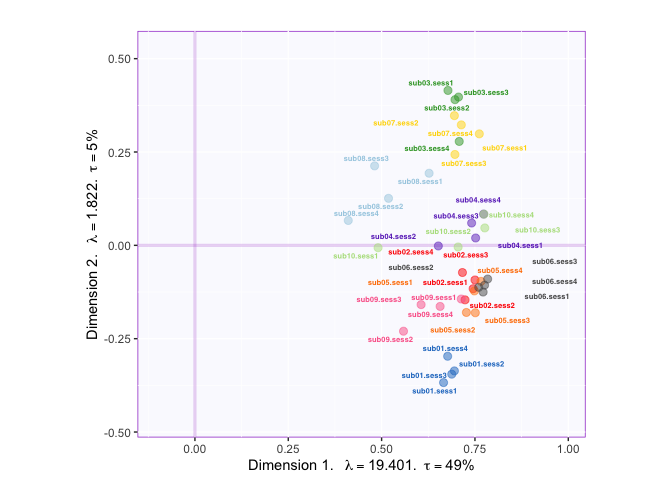
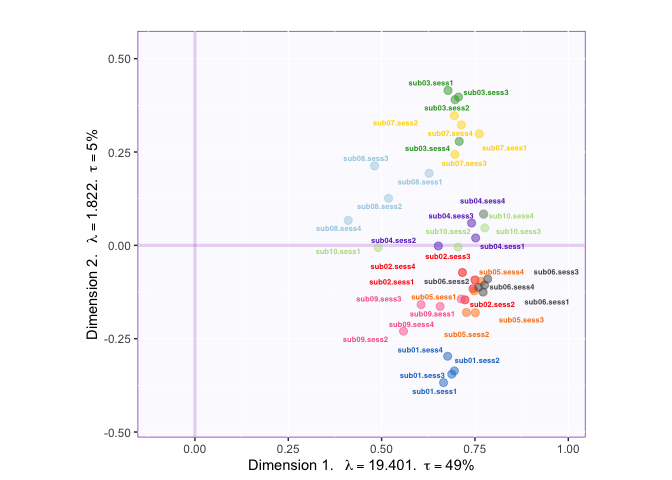
Gordon sim attack md

diff --git a/cfDiSTATIS/GordonParcel/simattack_GordonParcel_DisTATIS.md b/cfDiSTATIS/GordonParcel/simattack_GordonParcel_DisTATIS.md
@@ -113,3 +113,13 @@ Component 1 & 2
 Component 2 & 3
 
 ![](simattack_GordonParcel_DisTATIS_files/figure-gfm/plot_fig_pF_cp3-1.png)<!-- -->
+
+#### Mean partial factor scores
+
+Component 1 & 2
+
+![](simattack_GordonParcel_DisTATIS_files/figure-gfm/plot_fig_netpF-1.png)<!-- -->
+
+Component 2 & 3
+
+![](simattack_GordonParcel_DisTATIS_files/figure-gfm/plot_fig_pF_cp3_net-1.png)<!-- -->
